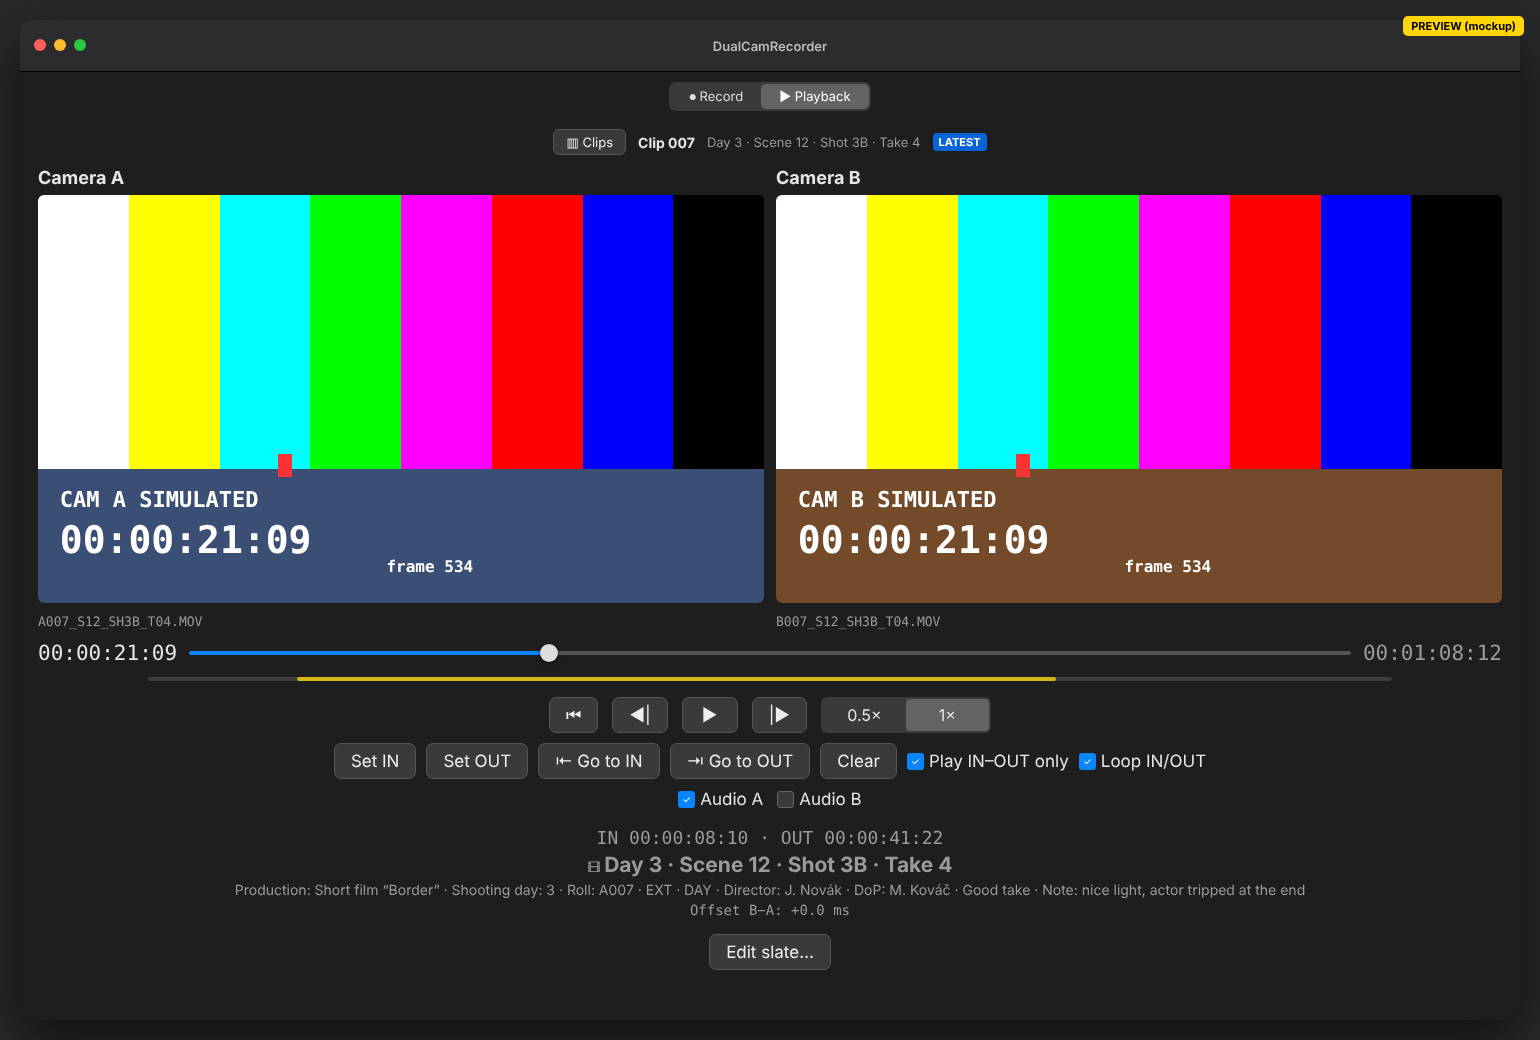
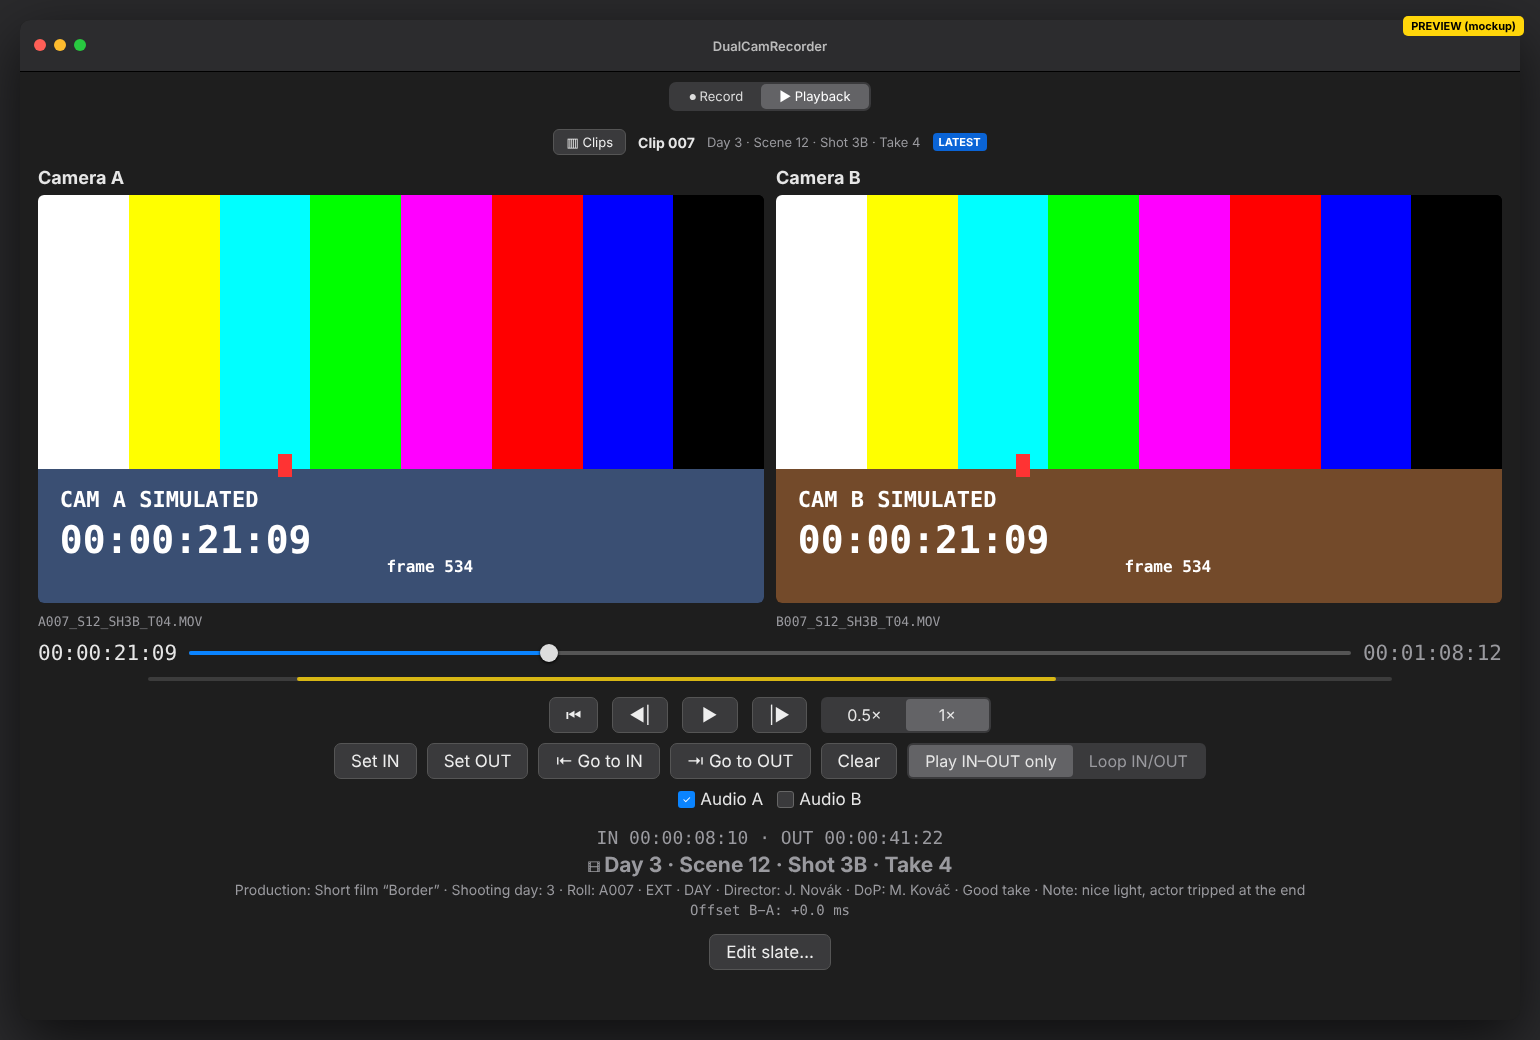
Style "Play IN-OUT only" and "Loop IN/OUT" like the speed control
The two toggles are grouped into one segmented-looking control:
light gray segment when on, dark when off (SegmentToggleStyle).

Claude-Session: https://claude.ai/code/session_01SjxyfTkJQH7RKsrkA8EJQA

Changed region(s): [[0.5922, 0.7077, 0.7792, 0.7692], [0.2494, 0.7077, 0.2805, 0.7385]]

diff --git a/DualCamRecorder/Views/Components.swift b/DualCamRecorder/Views/Components.swift
@@ -80,3 +80,35 @@ struct ShortcutButton: View {
             .accessibilityHidden(true)
     }
 }
+
+/// Toggle drawn like a segment of a segmented control: light gray when on, dark when off.
+struct SegmentToggleStyle: ToggleStyle {
+    func makeBody(configuration: Configuration) -> some View {
+        Button {
+            configuration.isOn.toggle()
+        } label: {
+            configuration.label
+                .padding(.horizontal, 16)
+                .padding(.vertical, 5)
+                .frame(minHeight: 30)
+                .foregroundStyle(configuration.isOn ? Color.primary : Color.secondary)
+                .background(
+                    RoundedRectangle(cornerRadius: 6)
+                        .fill(configuration.isOn ? Color.gray.opacity(0.55) : Color.clear)
+                )
+                .contentShape(RoundedRectangle(cornerRadius: 6))
+        }
+        .buttonStyle(.plain)
+    }
+}
+
+/// Container that groups SegmentToggleStyle toggles so they look like one segmented control.
+struct SegmentGroup<Content: View>: View {
+    @ViewBuilder let content: Content
+
+    var body: some View {
+        HStack(spacing: 2) { content }
+            .padding(2)
+            .background(RoundedRectangle(cornerRadius: 8).fill(Color.gray.opacity(0.2)))
+    }
+}

diff --git a/DualCamRecorder/Views/PlaybackView.swift b/DualCamRecorder/Views/PlaybackView.swift
@@ -338,9 +338,13 @@ struct PlaybackView: View {
                 .disabled(player.marks.outPoint == nil)
             Button("Clear") { player.clearMarks() }
                 .disabled(player.marks.isEmpty)
-            Toggle("Play IN–OUT only", isOn: $player.limitToRange)
-            Toggle("Loop IN/OUT", isOn: $player.loopInOut)
-                .help("Repeat IN → OUT continuously (without OUT: to the end of the clip)")
+            SegmentGroup {
+                Toggle("Play IN–OUT only", isOn: $player.limitToRange)
+                    .help("Start at IN and stop at OUT")
+                Toggle("Loop IN/OUT", isOn: $player.loopInOut)
+                    .help("Repeat IN → OUT continuously (without OUT: to the end of the clip)")
+            }
+            .toggleStyle(SegmentToggleStyle())
         }
     }
 
